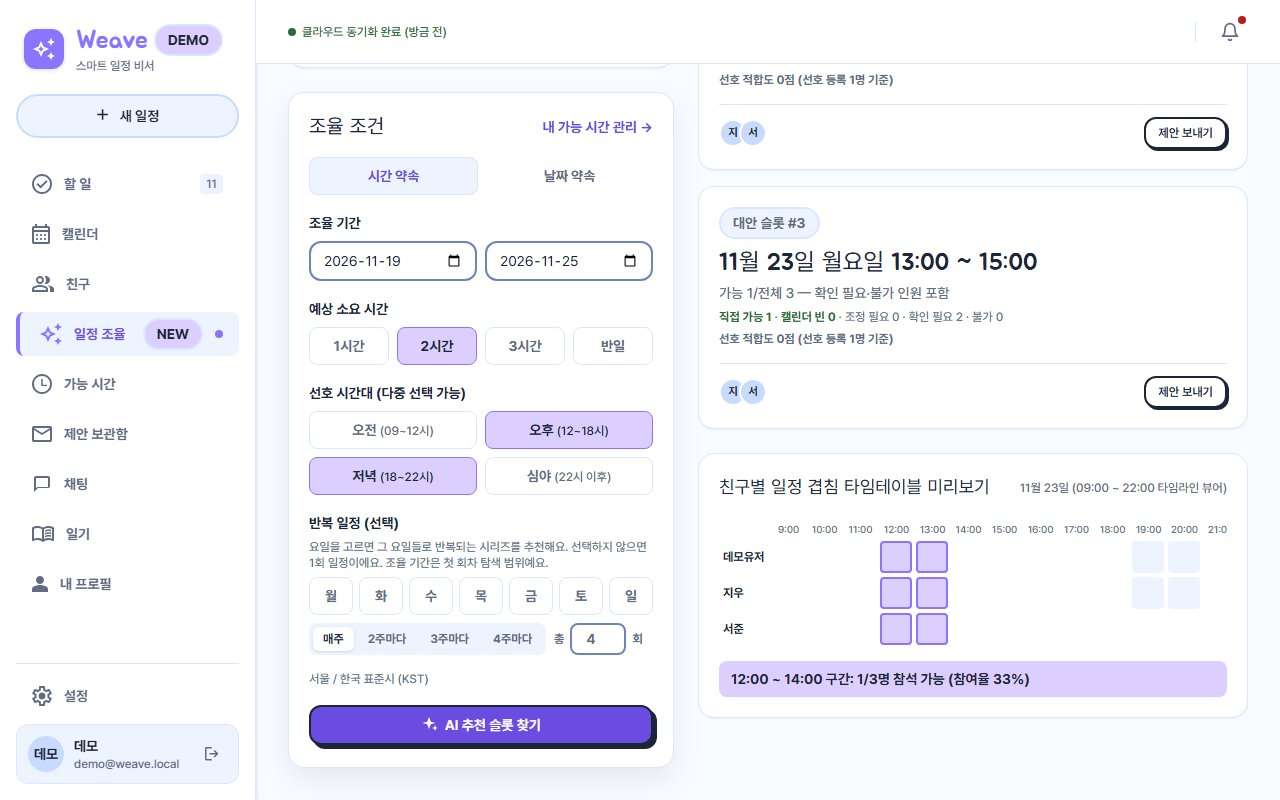
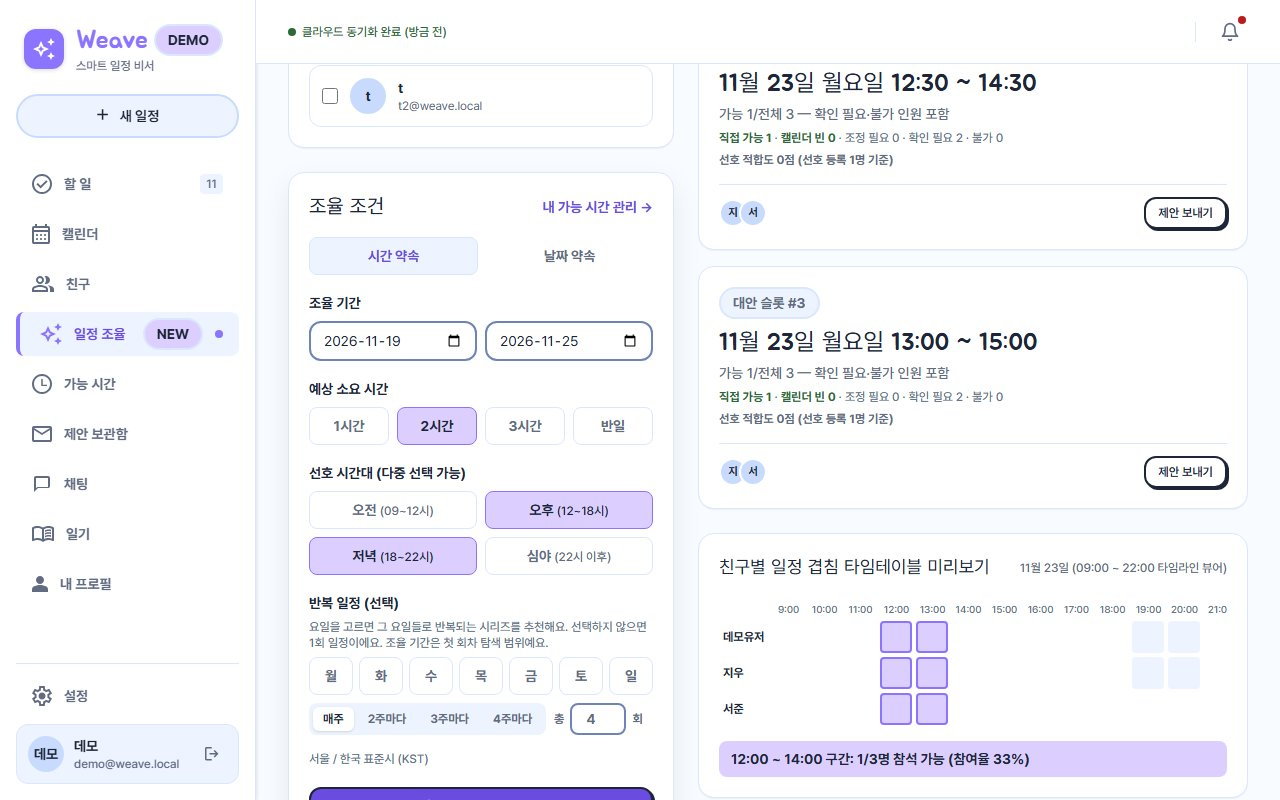
fix(fe): 랜딩 스케줄링 샷 타임테이블 구도 + 캡처 스크립트 예외 안전

diff --git a/scripts/capture_landing_shots.py b/scripts/capture_landing_shots.py
@@ -24,7 +24,6 @@ SHOTS = [
     {'name': 'shot-scheduling', 'path': '/app/scheduling', 'nav': '일정 조율', 'prepare': 'scheduling'},
     {'name': 'shot-calendar', 'path': '/app/calendar', 'nav': '캘린더', 'prepare': 'calendar'},
     {'name': 'shot-chat', 'path': '/app/chat', 'nav': '채팅', 'prepare': 'chat'},
-    {'name': 'shot-diary', 'path': '/app/diary', 'nav': '일기'},
 ]
 
 DEMO_LOGIN_TEXT = '데모로 둘러보기'
@@ -42,6 +41,13 @@ def prep_scheduling(page):
     """3단계 위자드 — 친구 2명 선택 후 추천 실행. 실패 시 리셋 후 현재 상태를 캡처한다."""
     try:
         labels = page.locator('form li label')
+        # 친구 목록 로딩 중에는 EmptyState('친구가 없어요')만 보인다 — 스켈레톤이
+        # 없는 화면이라 체크박스 등장까지 명시적으로 기다린다
+        try:
+            labels.first.wait_for(timeout=15000)
+        except PlaywrightTimeoutError:
+            print('    warn: 친구 목록 로딩 타임아웃 — 위자드 초기 상태로 캡처')
+            return
         if labels.count() == 0:
             print('    warn: 친구 목록 없음 — 위자드 초기 상태로 캡처')
             return
@@ -56,8 +62,17 @@ def prep_scheduling(page):
         )
         try:
             done.wait_for(timeout=60000)
-            state = '추천 결과' if page.get_by_text('BEST 추천 슬롯').count() > 0 else '빈 결과/폼 에러'
+            has_best = page.get_by_text('BEST 추천 슬롯').count() > 0
+            state = '추천 결과' if has_best else '빈 결과/폼 에러'
             print(f'    scheduling: {state} 캡처')
+            if has_best:
+                # 타임테이블 미리보기는 후보 카드 아래에 렌더되어 1280×800 뷰포트
+                # 밖에 있다 — 화면 안으로 스크롤한 뒤 위쪽 여백을 조금 더 확보한다
+                page.get_by_text('친구별 일정 겹침 타임테이블 미리보기').scroll_into_view_if_needed()
+                page.evaluate('window.scrollBy(0, -80)')
+                # 친구 블록·내 일정 쿼리가 비동기로 셀을 채운다 — 스켈레톤이
+                # 없어서 고정 대기로 채워질 시간을 준다
+                page.wait_for_timeout(1500)
         except PlaywrightTimeoutError:
             # 추천 무응답 — 캘린더→일정 조율로 SPA 왕복해 위자드를 리셋하고,
             # 빈 위자드보다 낫도록 친구 2명을 다시 선택한 상태로 캡처한다
@@ -73,19 +88,25 @@ def prep_scheduling(page):
 
 def prep_calendar(page):
     """주간 뷰로 전환 — 탭 클릭 후 그리드 렌더 대기."""
-    page.get_by_role('tablist', name='캘린더 뷰').get_by_role('tab', name='주').click()
-    page.wait_for_timeout(800)
+    try:
+        page.get_by_role('tablist', name='캘린더 뷰').get_by_role('tab', name='주').click()
+        page.wait_for_timeout(800)
+    except PlaywrightTimeoutError as e:
+        print(f'    warn: calendar 준비 실패({e}) — 현재 상태로 캡처')
 
 
 def prep_chat(page):
     """첫 채팅방 진입 — 방이 없으면 목록 상태를 그대로 캡처한다."""
-    room = page.locator('main a[href^="/app/chat/"]').first
-    if room.count() == 0:
-        print('    chat: 채팅방 없음 — 목록 상태로 캡처')
-        return
-    room.click()
-    page.wait_for_timeout(1500)
-    print('    chat: 채팅방 상세 캡처')
+    try:
+        room = page.locator('main a[href^="/app/chat/"]').first
+        if room.count() == 0:
+            print('    chat: 채팅방 없음 — 목록 상태로 캡처')
+            return
+        room.click()
+        page.wait_for_timeout(1500)
+        print('    chat: 채팅방 상세 캡처')
+    except PlaywrightTimeoutError as e:
+        print(f'    warn: chat 준비 실패({e}) — 현재 상태로 캡처')
 
 
 PREPARE = {
@@ -108,42 +129,44 @@ def main():
     with sync_playwright() as p:
         browser = p.chromium.launch(headless=True)
         context = browser.new_context(viewport={'width': args.width, 'height': args.height})
-        page = context.new_page()
+        try:
+            page = context.new_page()
 
-        # 데모 로그인 — snapshot_screens.py와 동일 절차
-        page.goto(args.base_url + '/login', wait_until='load')
-        page.wait_for_timeout(800)
-        page.get_by_text(DEMO_LOGIN_TEXT).click()
-        page.wait_for_url('**/app**', timeout=15000)
-        # 로그인 직후 refresh 회전이 끝나기 전에 이동·리로드하면 세션이 폐기된다
-        page.get_by_text(BOOTING_TEXT).wait_for(state='hidden', timeout=15000)
-        page.wait_for_timeout(2500)
+            # 데모 로그인 — snapshot_screens.py와 동일 절차
+            page.goto(args.base_url + '/login', wait_until='load')
+            page.wait_for_timeout(800)
+            page.get_by_text(DEMO_LOGIN_TEXT).click()
+            page.wait_for_url('**/app**', timeout=15000)
+            # 로그인 직후 refresh 회전이 끝나기 전에 이동·리로드하면 세션이 폐기된다
+            page.get_by_text(BOOTING_TEXT).wait_for(state='hidden', timeout=15000)
+            page.wait_for_timeout(2500)
 
-        def wait_skeleton():
-            # 스켈레톤(role=status)이 사라질 때까지 대기 — be 응답 지연 시
-            # 로딩 상태가 마케팅 자산으로 저장되는 것을 막는다. 스켈레톤이
-            # 없는 화면은 즉시 통과. websocket(STOMP) 영향 없는 DOM 대기 사용.
-            page.wait_for_timeout(600)
-            try:
-                page.locator('[role="status"][aria-label="불러오는 중"]').first.wait_for(state='detached', timeout=10000)
-            except PlaywrightTimeoutError:
-                pass
+            def wait_skeleton():
+                # 스켈레톤(role=status)이 사라질 때까지 대기 — be 응답 지연 시
+                # 로딩 상태가 마케팅 자산으로 저장되는 것을 막는다. 스켈레톤이
+                # 없는 화면은 즉시 통과. websocket(STOMP) 영향 없는 DOM 대기 사용.
+                page.wait_for_timeout(600)
+                try:
+                    page.locator('[role="status"][aria-label="불러오는 중"]').first.wait_for(state='detached', timeout=10000)
+                except PlaywrightTimeoutError:
+                    pass
 
-        for shot in SHOTS:
-            # 인증 화면 이동은 SPA nav 클릭 — page.goto의 풀 리로드는
-            # 인메모리 토큰 유실로 auth guard가 랜딩으로 튕긴다
-            page.get_by_role('link', name=shot['nav'], exact=True).click()
-            wait_skeleton()
-            prepare = PREPARE.get(shot.get('prepare'))
-            if prepare is not None:
-                prepare(page)
+            for shot in SHOTS:
+                # 인증 화면 이동은 SPA nav 클릭 — page.goto의 풀 리로드는
+                # 인메모리 토큰 유실로 auth guard가 랜딩으로 튕긴다
+                page.get_by_role('link', name=shot['nav'], exact=True).click()
                 wait_skeleton()
-            page.wait_for_timeout(400)
-            out = OUT_DIR / f"{shot['name']}.jpg"
-            page.screenshot(path=str(out), type='jpeg', quality=85)
-            print(f"  {shot['name']:16s} {shot['path']:18s} -> {out.relative_to(ROOT)} ({out.stat().st_size // 1024}KB)")
-
-        browser.close()
+                prepare = PREPARE.get(shot.get('prepare'))
+                if prepare is not None:
+                    prepare(page)
+                    wait_skeleton()
+                page.wait_for_timeout(400)
+                out = OUT_DIR / f"{shot['name']}.jpg"
+                page.screenshot(path=str(out), type='jpeg', quality=85)
+                print(f"  {shot['name']:16s} {shot['path']:18s} -> {out.relative_to(ROOT)} ({out.stat().st_size // 1024}KB)")
+        finally:
+            context.close()
+            browser.close()
 
     print(f"\ndone: {OUT_DIR.relative_to(ROOT)}")
 
